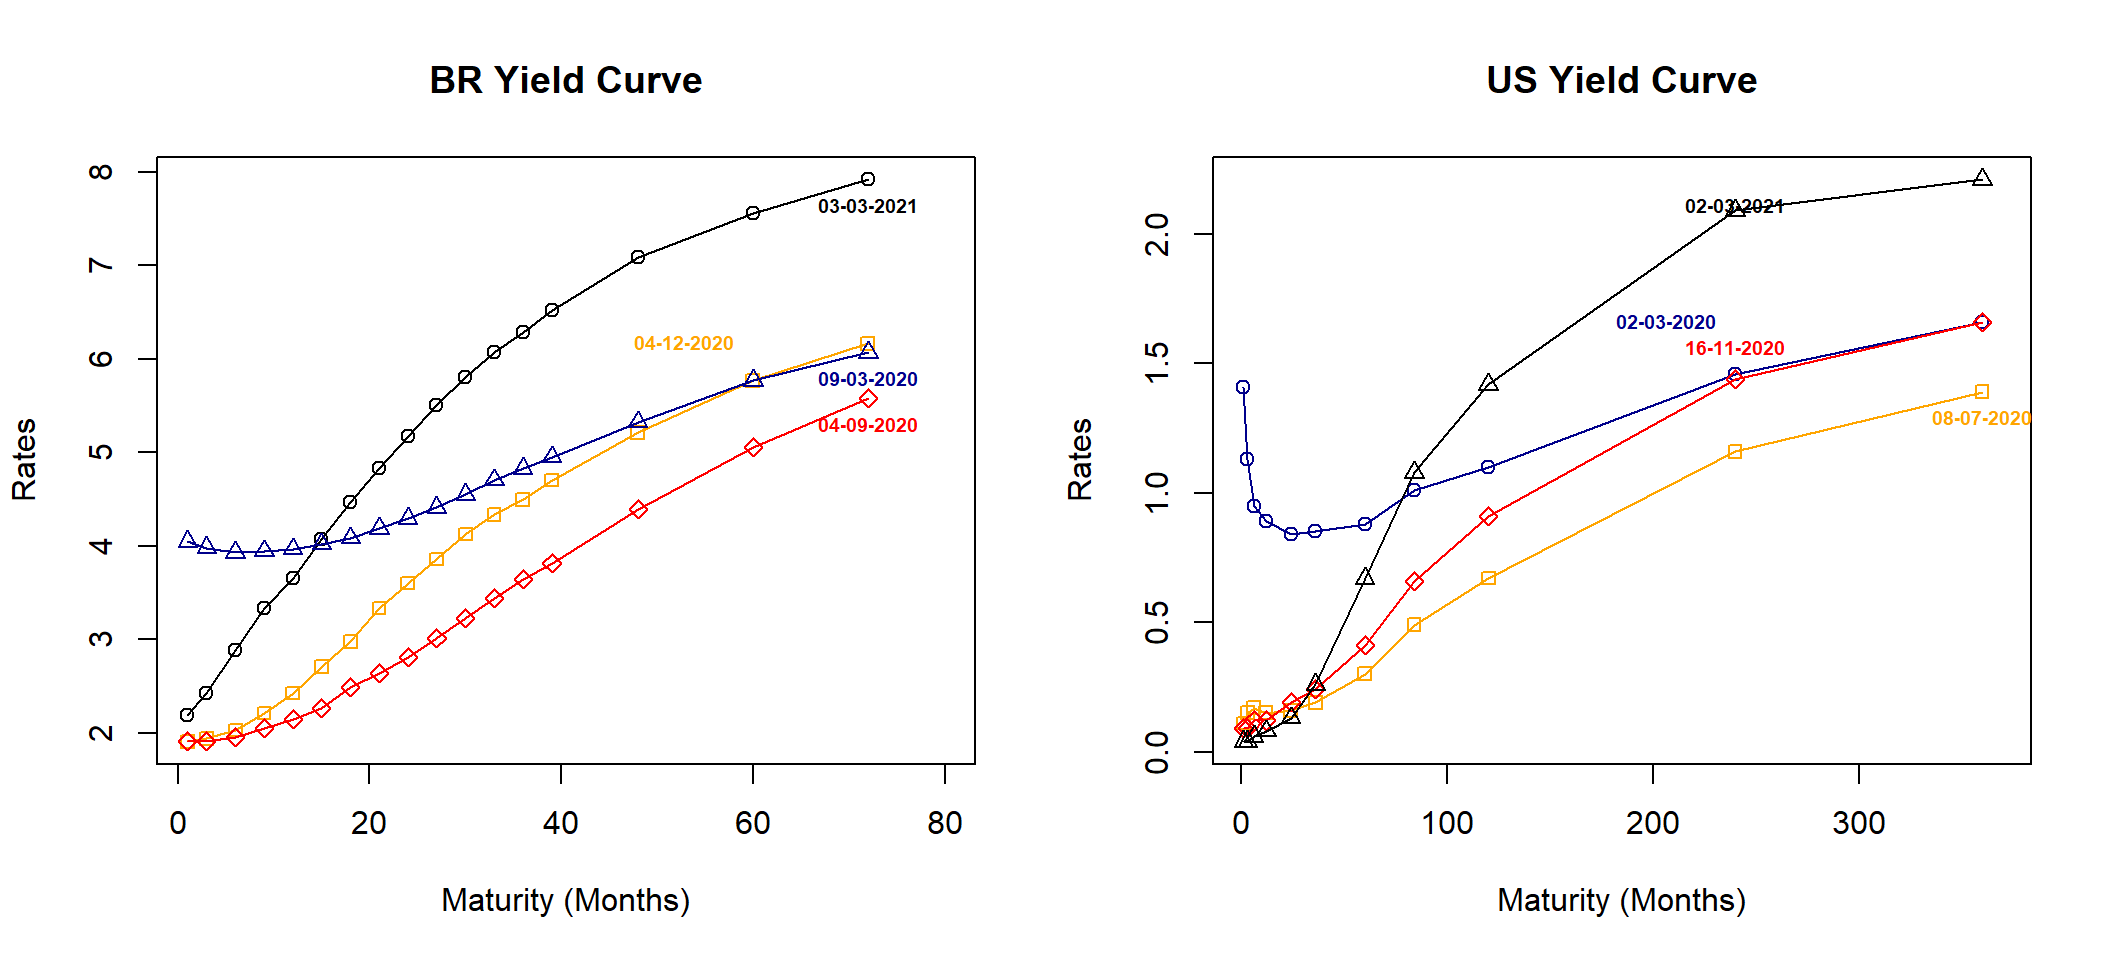
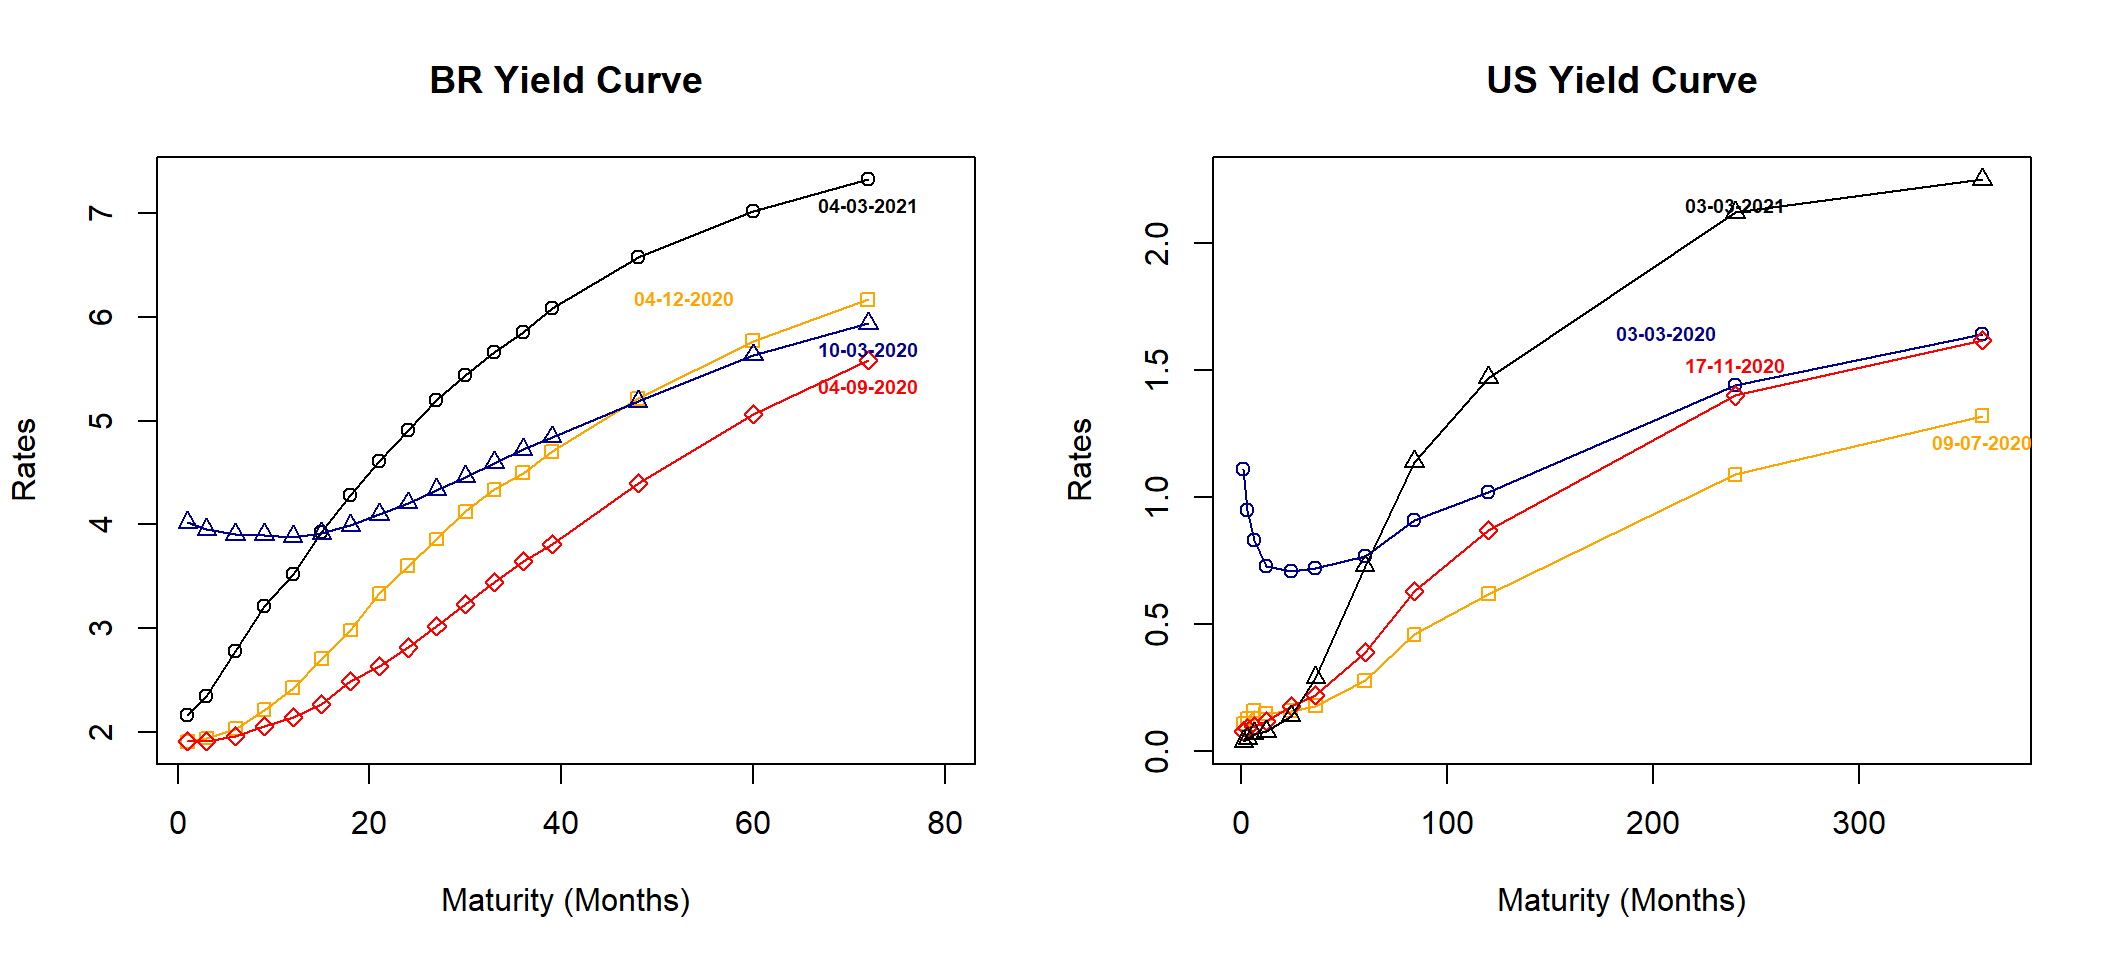
Add files via upload

diff --git a/index.html b/index.html
@@ -10,7 +10,7 @@
 
 
 
-<meta name="date" content="2021-04-03" />
+<meta name="date" content="2021-05-03" />
 
 <title>Yield Curves of BR, US, CN, and RU</title>
 
@@ -327,7 +327,7 @@ $(document).ready(function () {
 
 
 <h1 class="title toc-ignore">Yield Curves of BR, US, CN, and RU</h1>
-<h4 class="date">04/03/2021</h4>
+<h4 class="date">05/03/2021</h4>
 
 </div>
 
